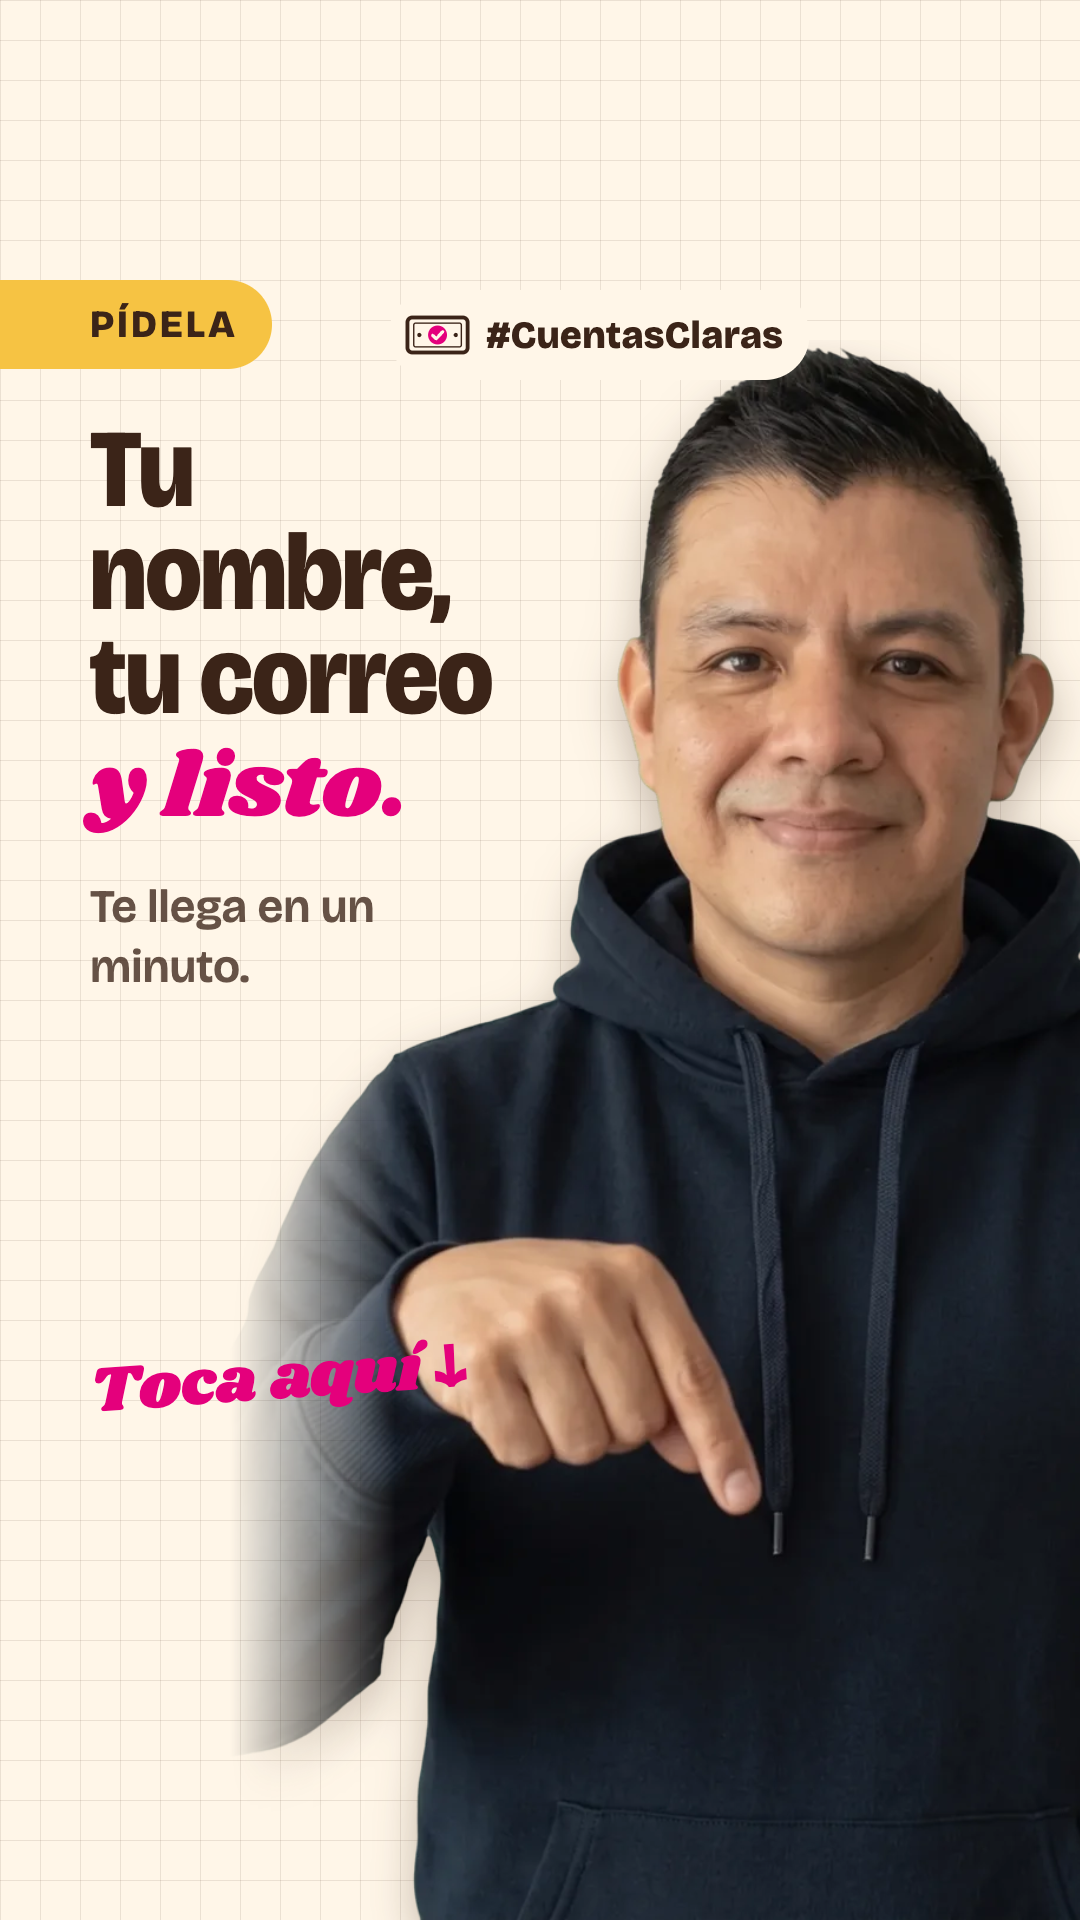
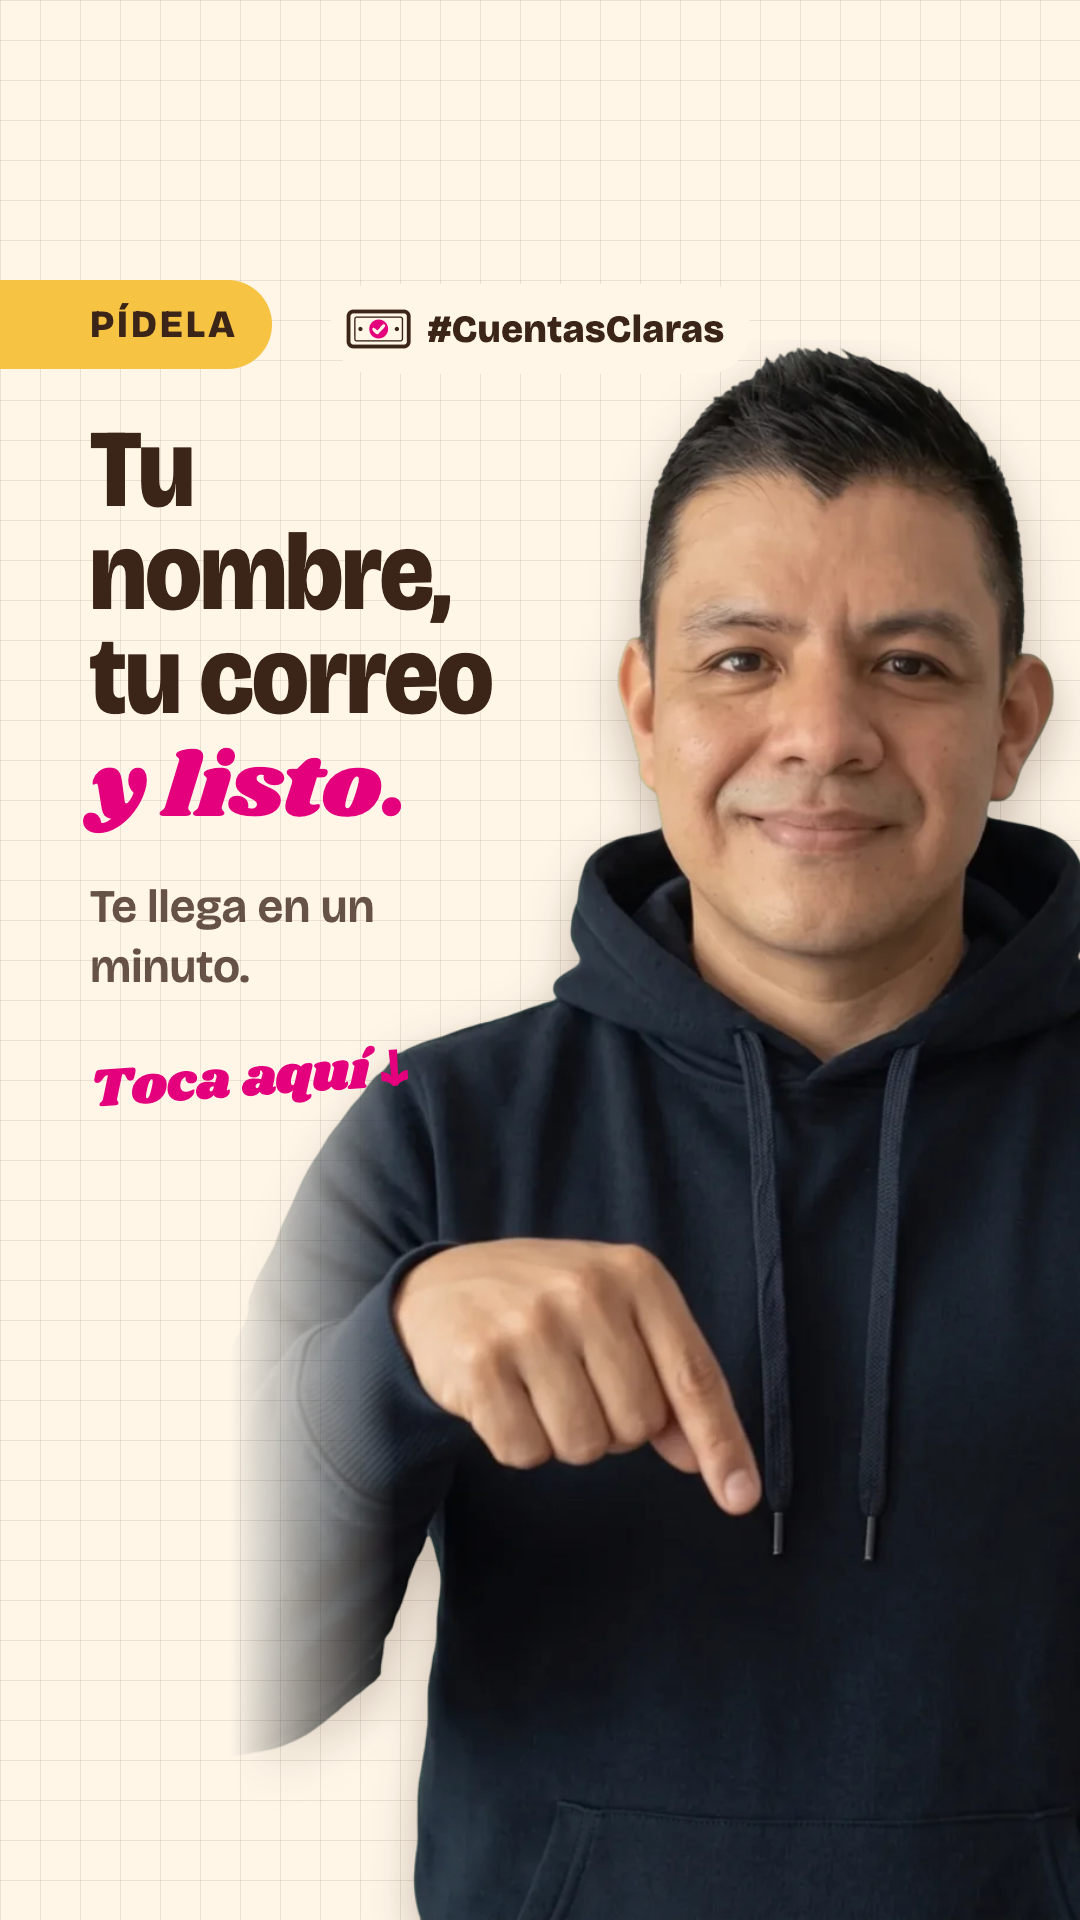
Historias: Preguntas 7/7 con Toca aquí arriba del hombro y #CuentasClaras centrado; PNG regenerados
Claude-Session: https://claude.ai/code/session_01DssaS1DUFqzs5W9YGi33pK

Changed region(s): [[0.0917, 0.6875, 0.4278, 0.75], [0.3056, 0.1562, 0.7333, 0.2188], [0.0917, 0.5312, 0.3667, 0.5938]]

diff --git a/design/tableros/historias.html b/design/tableros/historias.html
@@ -45,8 +45,10 @@
   /* 7/7 de Preguntas: más grande, y el borde izquierdo del recorte (la manga viene cortada en la
      foto) se desvanece para que no se lea como brazo mocho */
   .con-foto.grande .foto { height: 1580px; right: -330px; -webkit-mask-image: linear-gradient(90deg, transparent 0, #000 14%); mask-image: linear-gradient(90deg, transparent 0, #000 14%); }
-  .con-foto.grande .pie-h.tag { position: absolute; top: 290px; left: 50%; transform: translateX(-36%); margin: 0; }
-  .con-foto.grande .enlace { margin-top: auto; padding-bottom: 0; }
+  .con-foto.grande .pie-h.tag { position: absolute; top: 284px; left: 50%; transform: translateX(-50%); margin: 0; }
+  /* "Toca aquí" justo debajo del texto, donde todavía no llega el hombro (abajo se encimaba en el antebrazo) */
+  .con-foto.grande .enlace { margin-top: 56px; padding-bottom: 0; }
+  .con-foto.grande .enlace .rot { font-size: 54px; }
   .compacta .tit { font-size: 96px; max-width: 12ch; margin-top: 40px; }
   .compacta .lista { margin-top: 36px; gap: 14px; }
   .compacta .lista li { font-size: 40px; }
@@ -130,7 +132,7 @@
 <template id="t-perfil-rosa-chica"><div class="fperfil libreta"><img class="recorte-p" style="--sombra: var(--rosa)" src="../landing/img/israel-cruzado.webp" alt=""></div></template>
 <template id="t-quien-portada-maiz"><div class="portada libreta"><div class="circulo "><svg viewBox="0 0 200 200" class="ico"><use href="#simbolo"/></svg></div></div></template>
 <template id="t-quien-portada-maiz-perfil"><div class="portada libreta"><div class="circulo "><svg viewBox="0 0 200 200" class="ico"><use href="#simbolo"/></svg></div></div></template>
-<template id="t-quien-01"><div class="h libreta con-foto "><img class="recorte foto" src="../landing/img/israel-cruzado.webp" alt=""><div class="sobre"><span class="kick">Hola</span><h3 class="disp tit">Soy <span class="rem">Israel Castro.</span></h3><p class="txt">Contador público. Te explico el SAT y tu dinero sin rodeos, como en una consulta.</p></div><div class="pie-h"><svg viewBox="0 0 200 200"><use href="#simbolo"/></svg><span>@soyisraelcastro</span></div></div></template>
+<template id="t-quien-01"><div class="h libreta con-foto "><img class="recorte foto" src="../landing/img/israel-cruzado.webp" alt=""><div class="sobre"><span class="kick">Hola</span><h3 class="disp tit">Soy <span class="rem">Israel Castro.</span></h3><p class="txt">Contador público. Creo contenido explicando temas del SAT, contabilidad y lo que afecte tu bolsillo.</p></div><div class="pie-h"><svg viewBox="0 0 200 200"><use href="#simbolo"/></svg><span>@soyisraelcastro</span></div></div></template>
 <template id="t-quien-02"><div class="h libreta tipo-fichas "><span class="kick">Qué hay aquí</span><h3 class="disp tit">Lo que te preguntas, resuelto.</h3><div class="fichas"><div class="ficha" style="--c: var(--maiz)"><span class="pestana">SAT</span>RFC, e.firma, constancia, buzón y cartas</div><div class="ficha" style="--c: var(--rosa)"><span class="pestana osc">Tu declaración</span>Obligación, deducciones y saldos a favor</div><div class="ficha" style="--c: var(--cacao)"><span class="pestana osc">Tus números</span>Ingresos extra, finanzas sanas y estados financieros</div></div><div class="pie-h tag"><svg viewBox="0 0 200 200"><use href="#simbolo"/></svg><span>#CuentasClaras</span></div></div></template>
 <template id="t-quien-03"><div class="h libreta tipo-enlace "><span class="kick">Cada semana</span><h3 class="disp tit">Un video nuevo en <span class="rem">Cuentas Claras.</span></h3><p class="txt">Una duda, una serie. Búscanos en YouTube.</p><div class="enlace"><span class="rot">Toca aquí</span><div class="hueco"><div class="guia caja-sticker">Aquí va el sticker de enlace</div></div></div><div class="pie-h tag"><svg viewBox="0 0 200 200"><use href="#simbolo"/></svg><span>#CuentasClaras</span></div></div></template>
 <template id="t-servicios-portada-maiz"><div class="portada libreta"><div class="circulo "><svg viewBox="0 0 200 200" class="ico"><rect x="30" y="66" width="140" height="98" rx="16" fill="none" stroke="currentColor" stroke-width="10"/><path d="M76 66V50a10 10 0 0 1 10-10h28a10 10 0 0 1 10 10v16M30 104h140" stroke="currentColor" stroke-width="10" fill="none"/><rect x="86" y="94" width="28" height="22" rx="5" fill="var(--acento)"/></svg></div></div></template>

diff --git a/design/historias/generar.py b/design/historias/generar.py
@@ -292,8 +292,10 @@ PLANTILLA = """<!doctype html>
   /* 7/7 de Preguntas: más grande, y el borde izquierdo del recorte (la manga viene cortada en la
      foto) se desvanece para que no se lea como brazo mocho */
   .con-foto.grande .foto { height: 1580px; right: -330px; -webkit-mask-image: linear-gradient(90deg, transparent 0, #000 14%); mask-image: linear-gradient(90deg, transparent 0, #000 14%); }
-  .con-foto.grande .pie-h.tag { position: absolute; top: 290px; left: 50%; transform: translateX(-36%); margin: 0; }
-  .con-foto.grande .enlace { margin-top: auto; padding-bottom: 0; }
+  .con-foto.grande .pie-h.tag { position: absolute; top: 284px; left: 50%; transform: translateX(-50%); margin: 0; }
+  /* "Toca aquí" justo debajo del texto, donde todavía no llega el hombro (abajo se encimaba en el antebrazo) */
+  .con-foto.grande .enlace { margin-top: 56px; padding-bottom: 0; }
+  .con-foto.grande .enlace .rot { font-size: 54px; }
   .compacta .tit { font-size: 96px; max-width: 12ch; margin-top: 40px; }
   .compacta .lista { margin-top: 36px; gap: 14px; }
   .compacta .lista li { font-size: 40px; }
